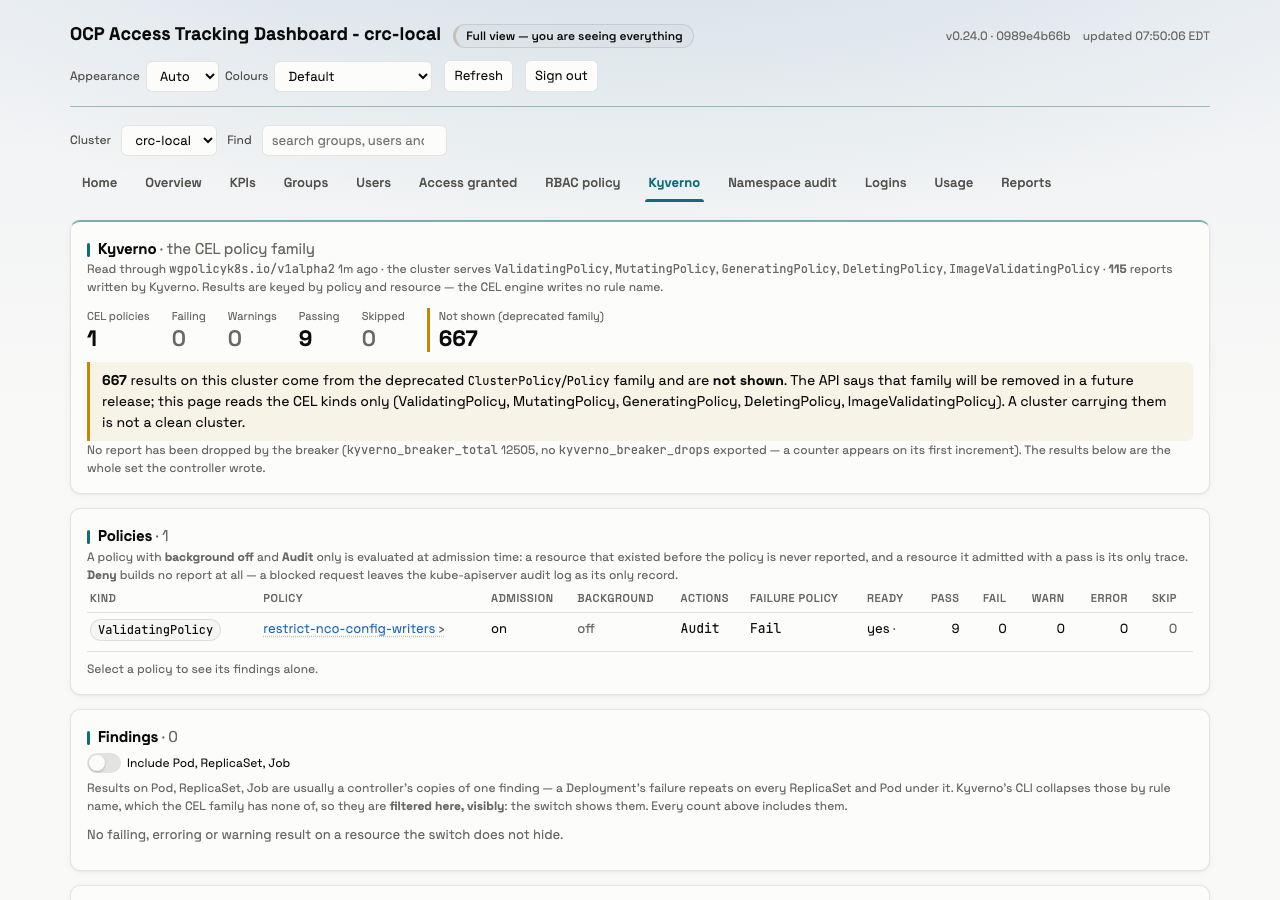
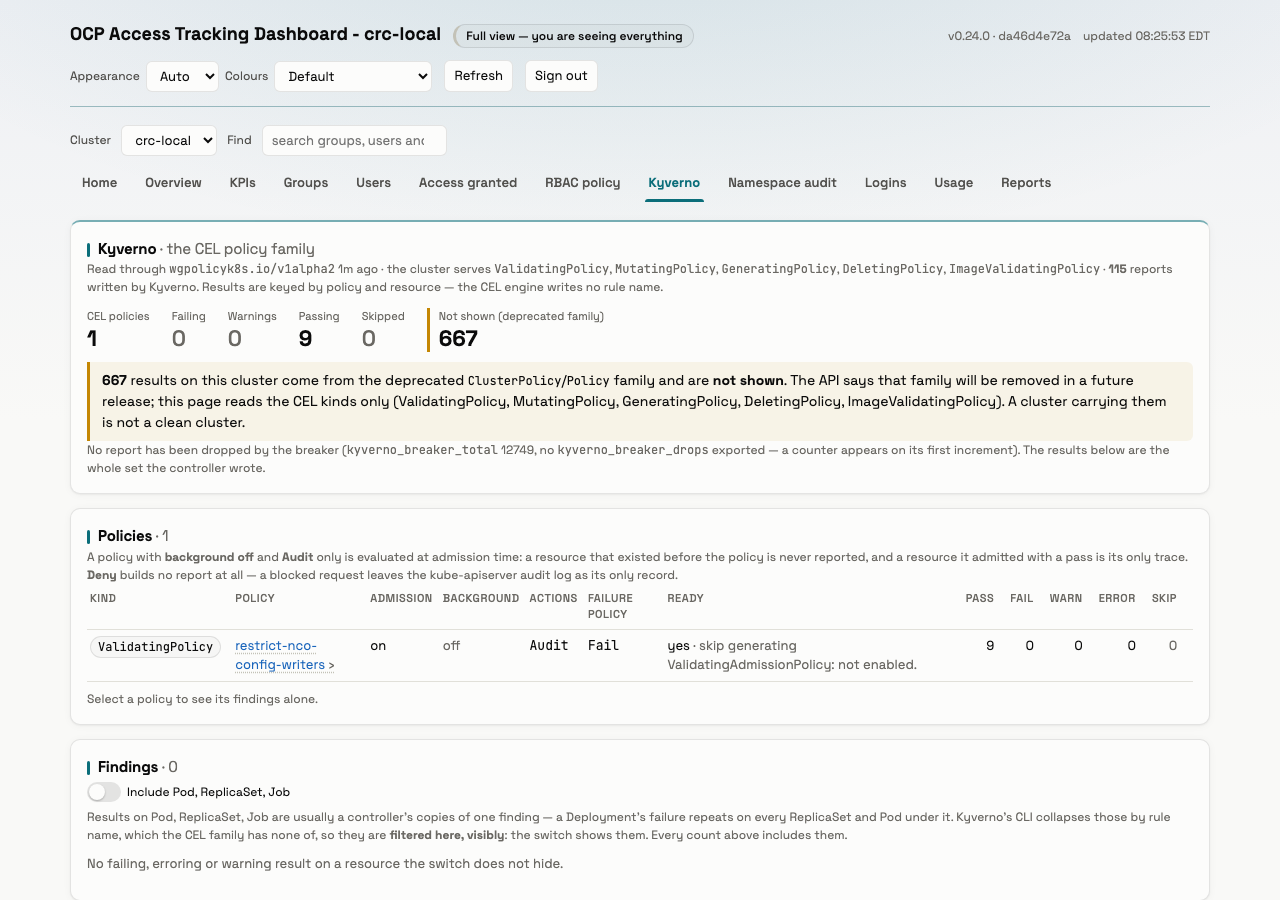
docs(report): the Kyverno module re-walked at da46d4e — list-only grants read the lab's reports; the policy's condition message on the page

diff --git a/reports/2026-09-20_kyverno-170/README.md b/reports/2026-09-20_kyverno-170/README.md
@@ -1,18 +1,18 @@
 # The Kyverno module on CRC — the walk behind #170 (steps 1–4, 6–8, the page)
 
-Deployed head `0989e4b` (`feat/170-kyverno-module`, through the Argo Application; `running : 0989e4b66b —
-verified in-pod`), walked with `walk.py` through the OAuth proxy as kubeadmin, Chromium 1280×900 then
+Deployed head `da46d4e` (`feat/170-kyverno-module` after the Grok/Codex pass — the grants `list` only, through the Argo
+Application; `running : da46d4e72a — verified in-pod`; the first walk at `0989e4b` read the same lines), walked with `walk.py` through the OAuth proxy as kubeadmin, Chromium 1280×900 then
 375×740, ninety seconds after the roll so the first binding refresh had read the reports. Every line
 below is the script's own output; the numbers are the lab's real reports (the 09-19 and 09-20 discovery
 records: 115 reports, 667 legacy results, 9 CEL results, three breaker circuits).
 
 | claim | measured |
 |---|---|
-| the API's payload | `{"present": true, "api_group": "wgpolicyk8s.io/v1alpha2", "policy_kinds": [the five CEL kinds], "reports": 115, "legacy_results": 667, "other_results": 0, "breaker_total": 12505, "breaker_drops": null, "results": {"pass": 9, "fail": 0, …}, "policies": 1, "total": 0}` |
+| the API's payload | `{"present": true, "api_group": "wgpolicyk8s.io/v1alpha2", "policy_kinds": [the five CEL kinds], "reports": 115, "legacy_results": 667, "other_results": 0, "breaker_total": 12749, "breaker_drops": null, "results": {"pass": 9, "fail": 0, …}, "policies": 1, "total": 0}` |
 | the tiles, the deprecated family flagged | `[['CEL policies', '1', ''], ['Failing', '0', ''], ['Warnings', '0', ''], ['Passing', '9', ''], ['Skipped', '0', ''], ['Not shown (deprecated family)', '667', 'flag-warning']]` |
 | the deprecated-family note | `667 results on this cluster come from the deprecated ClusterPolicy/Policy family and are not shown. The API says that family will be removed …` |
 | the breaker: three circuits summed, no drop observed | `No report has been dropped by the breaker (kyverno_breaker_total 12505, no kyverno_breaker_drops exported — a counter appears on its first increment) …` |
-| the policy and its report counts | `[['ValidatingPolicy', 'restrict-nco-config-writers', 'on', 'off', 'Audit', 'Fail', 'yes ·', '9', '0', '0', '0', '0']]` |
+| the policy and its report counts | `[['ValidatingPolicy', 'restrict-nco-config-writers', 'on', 'off', 'Audit', 'Fail', 'yes · skip generating ValidatingAdmissionPolicy: not enabled.', '9', '0', '0', '0', '0']]` — the controller's own word beside Ready (finding 10's opt-in, on the page) |
 | the findings behind the controlled-kind switch, on the wire | `Findings · 0 \| rows 0` after `?controlled=true` (every CEL result on the lab is a pass) |
 | the history | `Changes · 0` (the first read is a baseline) |
 | 375 px | `no-x-overflow True`; `errors : []` |
